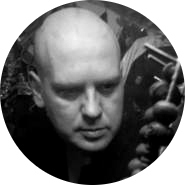
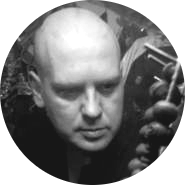
About and contact tweaks

diff --git a/css/main.css b/css/main.css
@@ -382,7 +382,7 @@ a, a:visited {
 a:hover {
   color: #a83a24; }
 
-.small-bold, .tagline p, nav.main-nav ul li a, .button, .client-info .client-name {
+.small-bold, .tagline p, nav.main-nav ul li a, .button, .client-info .client-name, .contact header p {
   font-size: 75%;
   font-weight: 700;
   text-transform: uppercase; }
@@ -1037,26 +1037,40 @@ figure {
   background: #22303a;
   padding: 60px 0 0; }
   .about header {
-    text-align: center; }
+    text-align: center;
+    max-width: 460px;
+    margin: 0 auto; }
     .about header img {
-      max-width: 74px; }
+      max-width: 84px; }
     .about header h1 {
       margin: 0.35em 0 0.75em; }
       .about header h1::after {
-        margin: 20px auto 0; }
+        margin: 20px auto 32px; }
   .about article {
     max-width: 460px;
-    margin: 0 auto 120px; }
+    margin: 0 auto 160px; }
 
 .contact {
   background: #22303a; }
   .contact header {
-    padding: 60px 0 0; }
+    padding: 40px 0 0;
+    text-align: center; }
+    .contact header h1 {
+      margin-bottom: 1em; }
+      .contact header h1::after {
+        margin: 24px auto 0; }
+    .contact header p {
+      margin: 0 auto;
+      letter-spacing: 1px; }
+    .contact header a {
+      color: #f0f0f0; }
+      .contact header a:hover {
+        color: #a83a24; }
 
 .contact-form {
-  max-width: 500px;
+  max-width: 460px;
   margin: 0 auto;
-  padding: 50px 0 0; }
+  padding: 40px 0 0; }
   .contact-form input, .contact-form textarea {
     width: 100%;
     border: 0;
@@ -1085,20 +1099,24 @@ figure {
   .contact-form input::-webkit-input-placeholder, .contact-form textarea::-webkit-input-placeholder {
     color: #a3a3a3;
     font-size: 80%;
-    line-height: 1.8; }
+    line-height: 1.8;
+    text-transform: uppercase; }
   .contact-form input::-moz-placeholder, .contact-form textarea::-moz-placeholder {
     color: #a3a3a3;
     font-size: 80%;
     line-height: 1.8;
+    text-transform: uppercase;
     opacity: 1; }
   .contact-form input:-ms-input-placeholder, .contact-form textarea:-ms-input-placeholder {
     color: #a3a3a3;
     font-size: 80%;
-    line-height: 1.8; }
+    line-height: 1.8;
+    text-transform: uppercase; }
   .contact-form input:-moz-placeholder, .contact-form textarea:-moz-placeholder {
     color: #a3a3a3;
     font-size: 80%;
     line-height: 1.8;
+    text-transform: uppercase;
     opacity: 1; }
 
 footer {

diff --git a/_sass/3-layout/_contact.sass b/_sass/3-layout/_contact.sass
@@ -2,12 +2,28 @@
   background: $bg-lighter
 
   header
-    padding: 60px 0 0
+    padding: 40px 0 0
+    text-align: center
+
+    h1
+      margin-bottom: 1em
+      &::after
+        margin: 24px auto 0
+
+    p
+      margin: 0 auto
+      @extend .small-bold
+      letter-spacing: 1px
+
+    a
+      color: $neutral
+      &:hover
+        color: $primary
 
 .contact-form
-  max-width: 500px
+  max-width: 460px
   margin: 0 auto
-  padding: 50px 0 0
+  padding: 40px 0 0
 
   input, textarea
     width: 100%
@@ -43,17 +59,21 @@
     color: darken($neutral, 30%)
     font-size: 80%
     line-height: 1.8
+    text-transform: uppercase
   input::-moz-placeholder, textarea::-moz-placeholder
     color: darken($neutral, 30%)
     font-size: 80%
     line-height: 1.8
+    text-transform: uppercase
     opacity: 1
   input:-ms-input-placeholder, textarea:-ms-input-placeholder
     color: darken($neutral, 30%)
     font-size: 80%
     line-height: 1.8
+    text-transform: uppercase
   input:-moz-placeholder, textarea:-moz-placeholder
     color: darken($neutral, 30%)
     font-size: 80%
     line-height: 1.8
+    text-transform: uppercase
     opacity: 1

diff --git a/_includes/about.html b/_includes/about.html
@@ -1,7 +1,7 @@
 <section id="about" class="about">
   <header>
     <img src="img/avatar-bw.png" alt="Sascha Mersch"/>
-    <h1>Mein Name ist Sascha Mersch,<br />ich bin Webdesigner in Berlin</h1>
+    <h1>Mein Name ist Sascha Mersch, ich bin Webdesigner in Berlin</h1>
   </header>
   <article>
     <p>Lorem ipsum dolor sit amet, consectetur adipisicing elit, sed do eiusmod tempor incididunt ut labore et dolore magna aliqua. Ut enim ad minim veniam, quis nostrud exercitation ullamco laboris nisi ut aliquip ex ea commodo consequat.</p>

diff --git a/_includes/contact.html b/_includes/contact.html
@@ -1,6 +1,7 @@
 <section id="contact" class="contact">
   <header>
     <h1>Sie möchten mit mir arbeiten?<br />Nehmen Sie Kontakt zu mir auf.</h1>
+    <p>030 27574647 • <a href="mailto:info@ichzweinull.com">info@ichzweinull.com</a></p>
   </header>
   <!-- <form class="awesome-form" method="POST" action="//formspree.io/info@ichzweinull.com"> -->
   <form class="contact-form">

diff --git a/_sass/3-layout/_about.sass b/_sass/3-layout/_about.sass
@@ -4,16 +4,18 @@
 
   header
     text-align: center
+    max-width: 460px
+    margin: 0 auto
 
     img
-      max-width: 74px
+      max-width: 84px
 
     h1
       margin: 0.35em 0 0.75em
 
       &::after
-        margin: 20px auto 0
+        margin: 20px auto 32px
 
   article
     max-width: 460px
-    margin: 0 auto 120px
+    margin: 0 auto 160px
